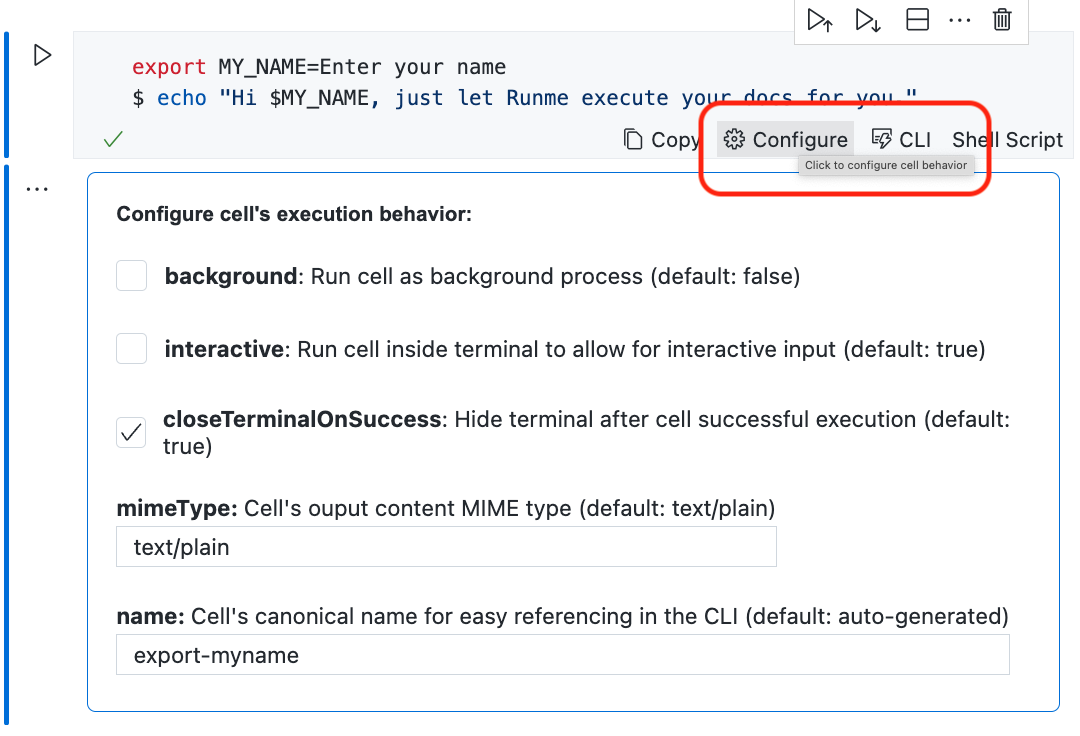
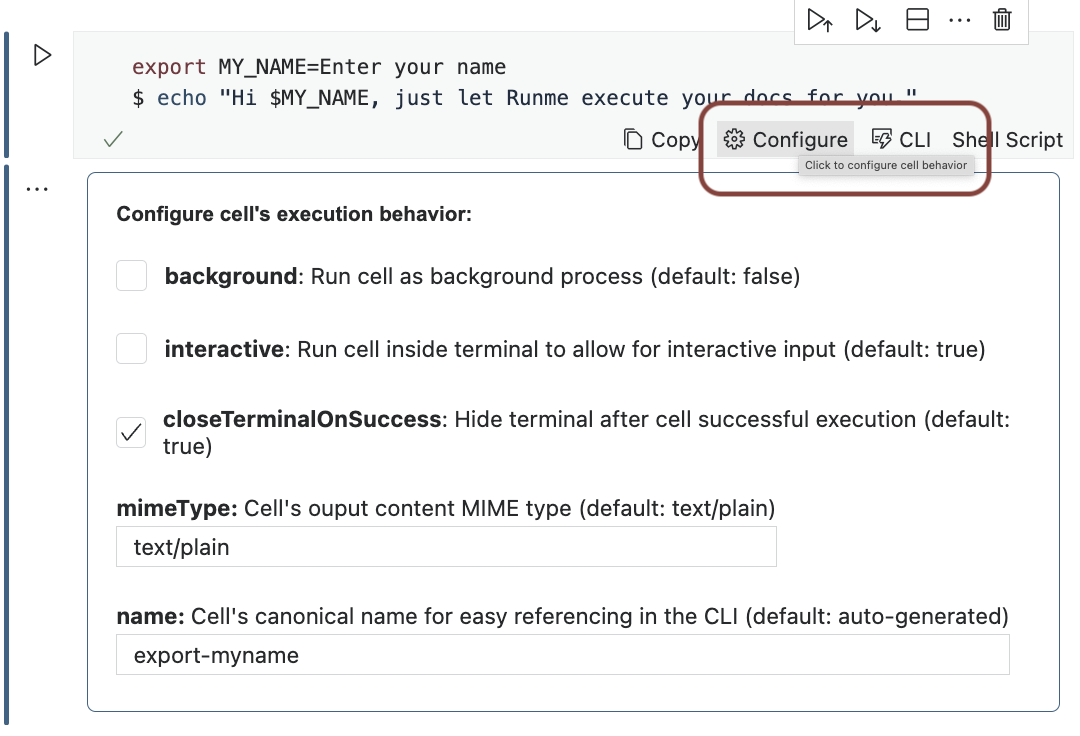
Screenshots and grayscales

diff --git a/docs/static/originals/grayscale.md b/docs/static/originals/grayscale.md
@@ -1,0 +1,9 @@
+### It's quite confusing to have cells and screenshots of cells interleaved
+
+```sh { interactive=false }
+export pngs=$(find . -name "*.png")
+```
+
+```sh
+echo $pngs | xargs -n 1 -I{} convert {} \( +clone -colorspace gray \) -define compose:args=70% -compose blend -composite ../{}
+```
